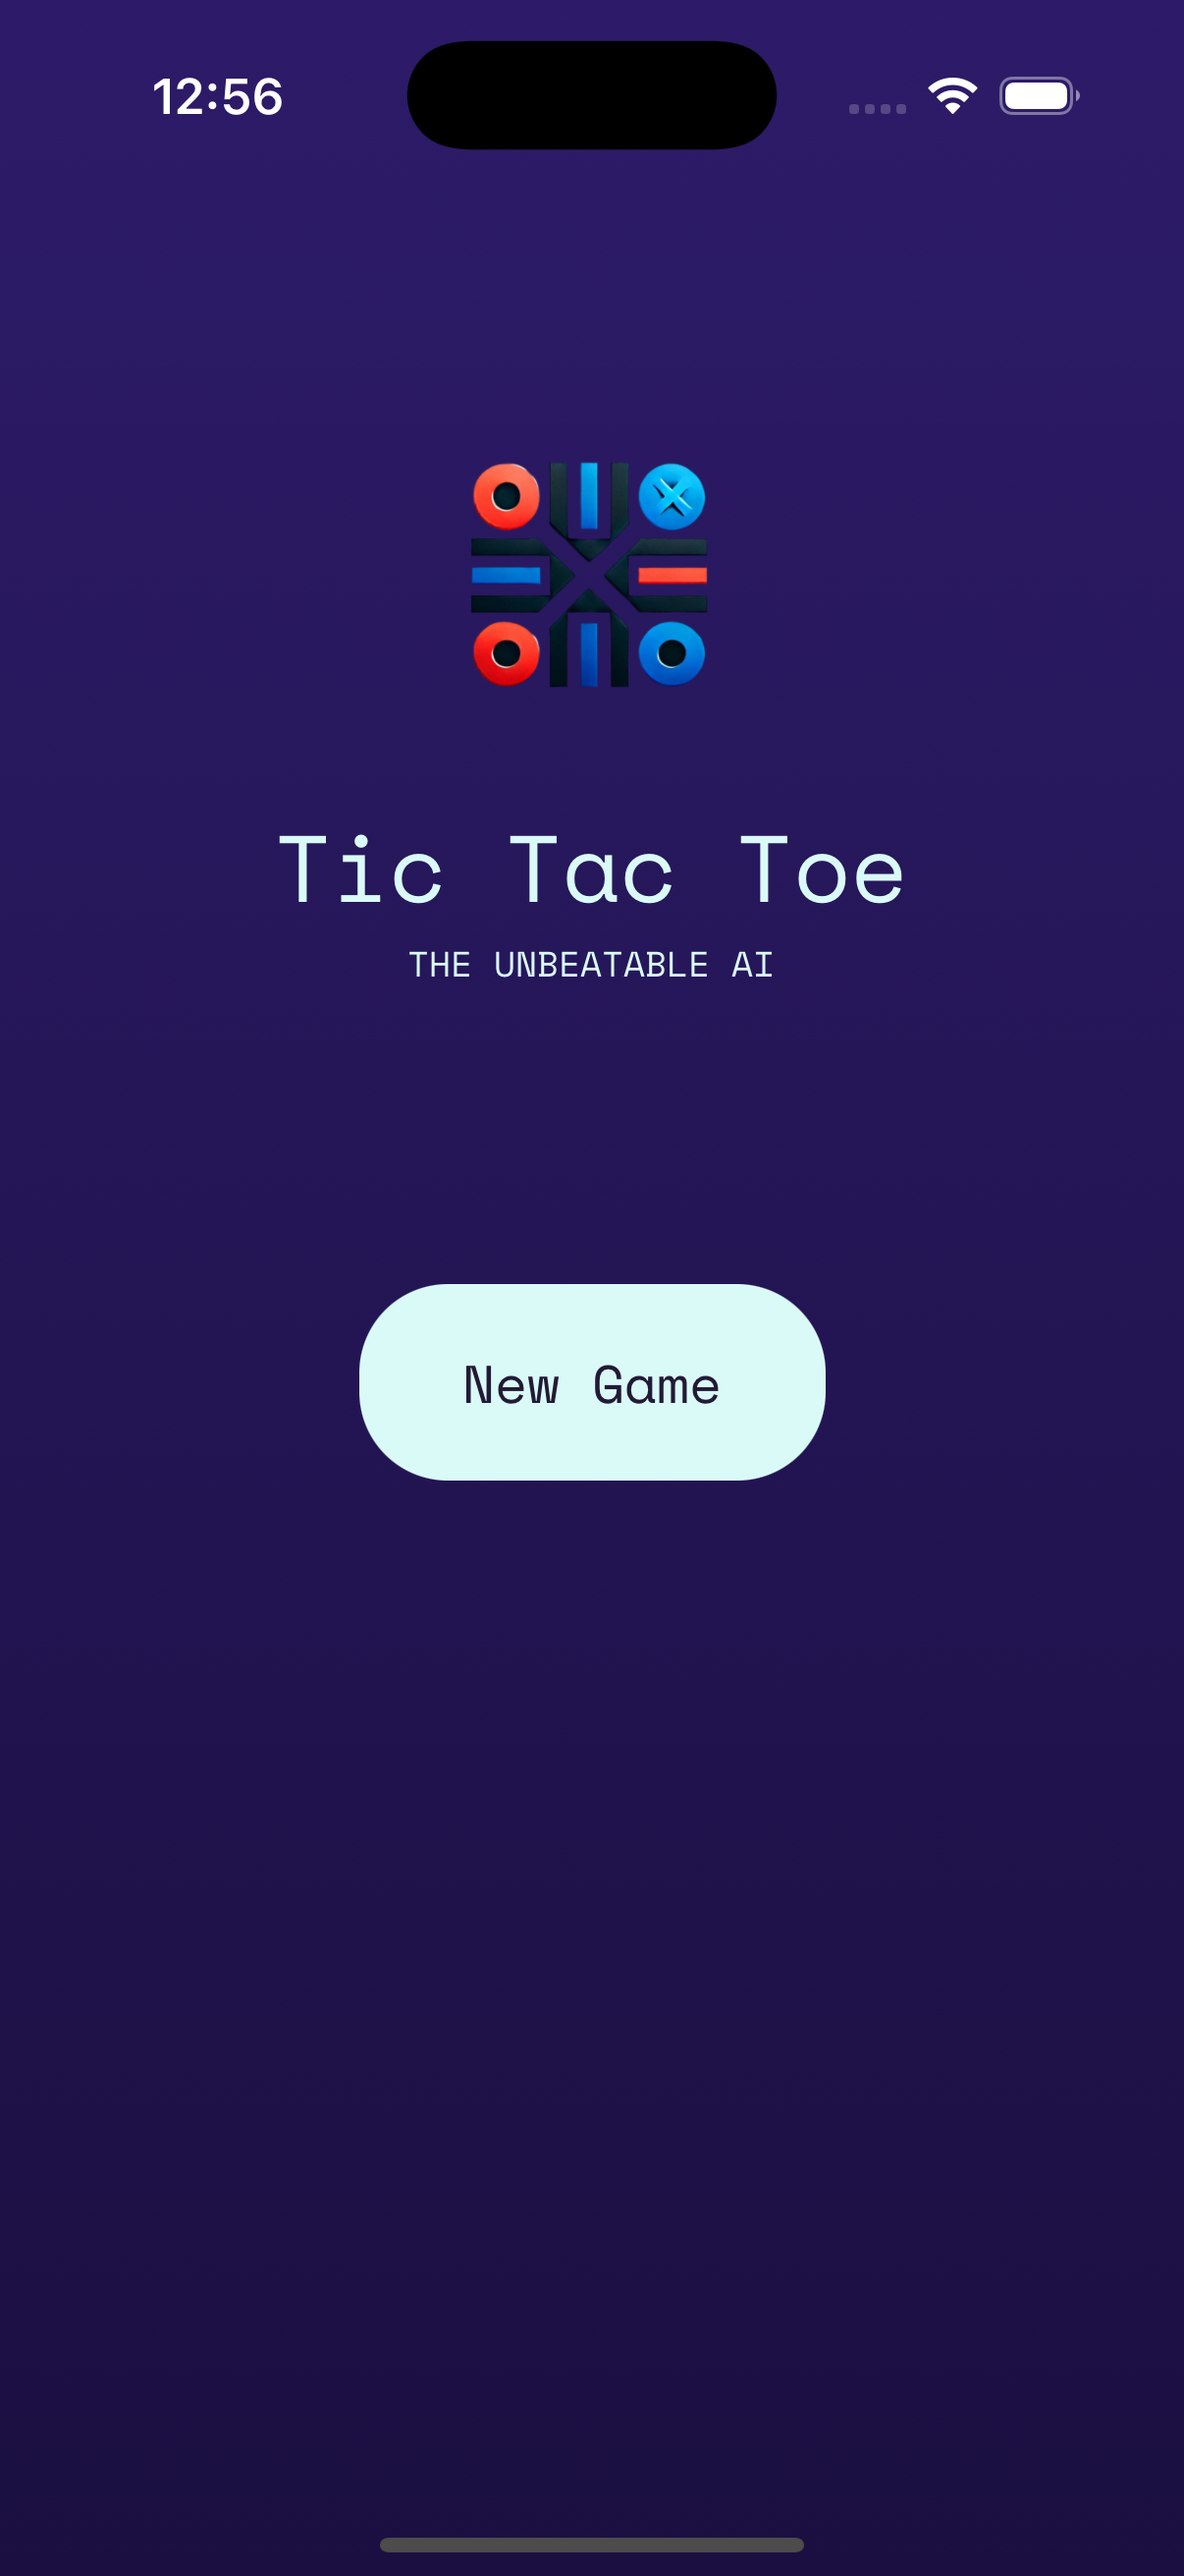
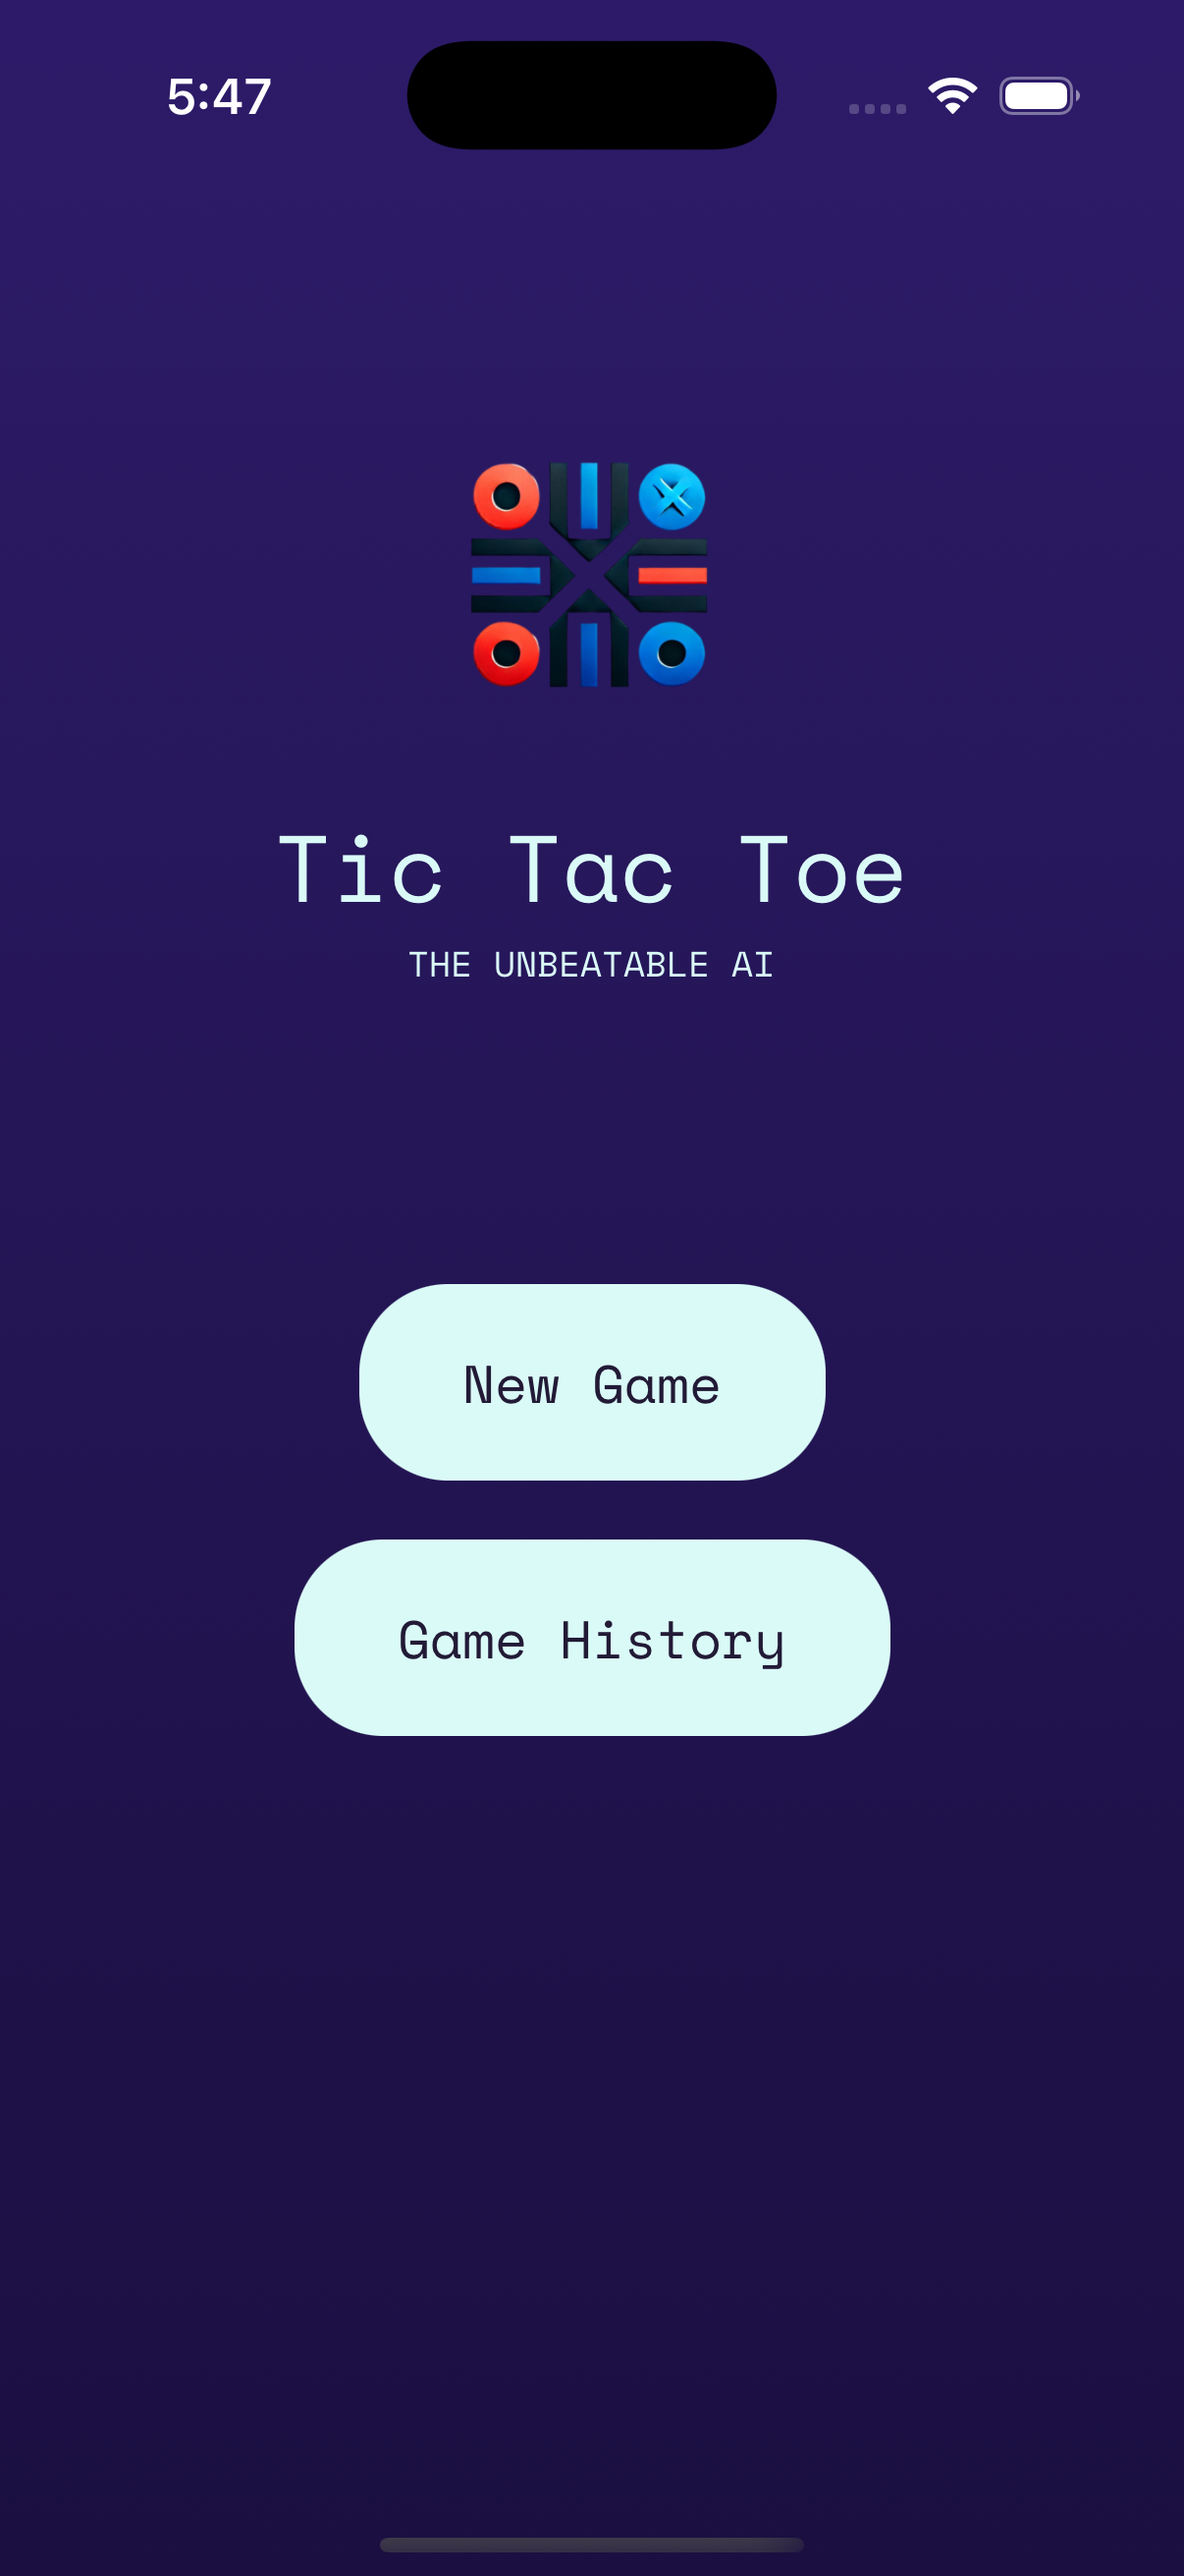
Add game history feature with AsyncStorage persistence

Changed region(s): [[0.2454, 0.587, 0.767, 0.6796], [0.3375, 0.9577, 0.675, 1.0], [0.1227, 0.0309, 0.2454, 0.0618]]

diff --git a/contexts/game-history-context.tsx b/contexts/game-history-context.tsx
@@ -1,0 +1,172 @@
+// Create a context for the game history
+
+import { createContext, useCallback, useContext, useReducer, useEffect } from 'react';
+import AsyncStorage from '@react-native-async-storage/async-storage';
+
+const GAME_HISTORY_KEY = '@gameHistory';
+
+export type GameHistory = {
+  id: string;
+  date: string;
+  result: string;
+  streak?: {
+    type: 'winning' | 'losing';
+    count: number;
+  };
+};
+
+export interface GameStats {
+  totalGames: number;
+  aiWins: number;
+  draws: number;
+  winLossRatio: number;
+  longestWinStreak: number;
+  longestLoseStreak: number;
+}
+
+export interface GameHistoryMethods {
+  state: GameHistory[];
+  stats: GameStats;
+  set: (state: GameHistory[]) => void;
+  add: (addState: GameHistory) => void;
+}
+
+const GameHistoryContext = createContext<GameHistoryMethods>({
+  state: [],
+  stats: {
+    totalGames: 0,
+    aiWins: 0,
+    draws: 0,
+    winLossRatio: 0,
+    longestWinStreak: 0,
+    longestLoseStreak: 0,
+  },
+  set: () => {},
+  add: () => {},
+});
+
+export enum GameHistoryActionType {
+  ADD_GAME_HISTORY = 'ADD_GAME_HISTORY',
+  SET_GAME_HISTORY = 'SET_GAME_HISTORY',
+}
+
+type GameHistoryAction = {
+  type: GameHistoryActionType;
+  payload: GameHistory[];
+};
+
+function reducer(state: GameHistory[], action: GameHistoryAction): GameHistory[] {
+  switch (action.type) {
+    case GameHistoryActionType.ADD_GAME_HISTORY:
+      return [...state, ...action.payload];
+    case GameHistoryActionType.SET_GAME_HISTORY:
+      return action.payload;
+    default:
+      return state;
+  }
+}
+
+function calculateStats(history: GameHistory[]): GameStats {
+  const stats: GameStats = {
+    totalGames: history.length,
+    aiWins: history.filter(game => game.result === 'loss').length,
+    draws: history.filter(game => game.result === 'draw').length,
+    winLossRatio: 0,
+    longestWinStreak: 0,
+    longestLoseStreak: 0,
+  };
+
+  // Calculate win/loss ratio
+  const wins = history.filter(game => game.result === 'win').length;
+  const losses = stats.aiWins;
+  stats.winLossRatio = losses === 0 ? wins : wins / losses;
+
+  // Calculate streaks
+  let currentWinStreak = 0;
+  let currentLoseStreak = 0;
+
+  history.forEach(game => {
+    if (game.result === 'win') {
+      currentWinStreak++;
+      currentLoseStreak = 0;
+      stats.longestWinStreak = Math.max(stats.longestWinStreak, currentWinStreak);
+    } else if (game.result === 'loss') {
+      currentLoseStreak++;
+      currentWinStreak = 0;
+      stats.longestLoseStreak = Math.max(stats.longestLoseStreak, currentLoseStreak);
+    } else {
+      currentWinStreak = 0;
+      currentLoseStreak = 0;
+    }
+  });
+
+  return stats;
+}
+
+async function deriveBaseState(): Promise<GameHistory[]> {
+  try {
+    const storedHistory = await AsyncStorage.getItem(GAME_HISTORY_KEY);
+    return storedHistory ? JSON.parse(storedHistory) : [];
+  } catch (error) {
+    console.error('Error loading game history:', error);
+    return [];
+  }
+}
+
+export function GameHistoryProvider({ children }: { children: React.ReactNode }) {
+  const [state, dispatch] = useReducer(reducer, []);
+  const stats = calculateStats(state);
+
+  // Load initial state from AsyncStorage
+  useEffect(() => {
+    deriveBaseState().then(baseState => {
+      if (baseState.length > 0) {
+        set(baseState);
+      }
+    });
+  }, []);
+
+  const add = useCallback(
+    async (add: GameHistory) => {
+      dispatch({ type: GameHistoryActionType.ADD_GAME_HISTORY, payload: [add] });
+      try {
+        const newState = [...state, add];
+        await AsyncStorage.setItem(GAME_HISTORY_KEY, JSON.stringify(newState));
+      } catch (error) {
+        console.error('Error saving game history:', error);
+      }
+    },
+    [state]
+  );
+
+  const set = useCallback(async (newState: GameHistory[]) => {
+    dispatch({ type: GameHistoryActionType.SET_GAME_HISTORY, payload: newState });
+    try {
+      await AsyncStorage.setItem(GAME_HISTORY_KEY, JSON.stringify(newState));
+    } catch (error) {
+      console.error('Error saving game history:', error);
+    }
+  }, []);
+
+  return (
+    <GameHistoryContext.Provider
+      value={{
+        state,
+        stats,
+        set,
+        add,
+      }}>
+      {children}
+    </GameHistoryContext.Provider>
+  );
+}
+
+export const useGameHistory = () => {
+  const context = useContext(GameHistoryContext);
+
+  if (!context) {
+    throw new Error('useGameHistory must be used within a GameHistoryProvider');
+  }
+
+  return context;
+};

diff --git a/app/_layout.tsx b/app/_layout.tsx
@@ -1,3 +1,4 @@
+import { GameHistoryProvider } from '@/contexts/game-history-context';
 import colors from '@/utils/colors';
 import { useFonts } from 'expo-font';
 import { Stack } from 'expo-router';
@@ -22,31 +23,47 @@ export default function RootLayout() {
   }
 
   return (
-    <Stack
-      screenOptions={{
-        orientation: 'portrait_down',
-      }}>
-      <Stack.Screen
-        name="index"
-        options={{
-          title: 'Home',
-          headerShown: false,
-        }}
-      />
-      <Stack.Screen
-        name="game"
-        options={{
-          title: '',
-          headerShown: true,
-          headerTransparent: true,
-          headerTintColor: colors.lightGreen,
-          headerBackTitle: 'Exit Game',
-          headerStyle: {
-            backgroundColor: 'transparent',
-          },
-        }}
-      />
-      <Stack.Screen name="+not-found" options={{ headerShown: false }} />
-    </Stack>
+    <GameHistoryProvider>
+      <Stack
+        screenOptions={{
+          orientation: 'portrait_down',
+        }}>
+        <Stack.Screen
+          name="index"
+          options={{
+            title: 'Home',
+            headerShown: false,
+          }}
+        />
+        <Stack.Screen
+          name="game"
+          options={{
+            title: '',
+            headerShown: true,
+            headerTransparent: true,
+            headerTintColor: colors.lightGreen,
+            headerBackTitle: 'Exit Game',
+            headerStyle: {
+              backgroundColor: 'transparent',
+            },
+          }}
+        />
+        <Stack.Screen
+          name="game-history"
+          options={{
+            title: '',
+            headerShown: true,
+            headerTransparent: true,
+            headerTintColor: colors.lightGreen,
+            headerBackTitle: 'Exit Game',
+            headerStyle: {
+              backgroundColor: 'transparent',
+            },
+          }}
+        />
+
+        <Stack.Screen name="+not-found" options={{ headerShown: false }} />
+      </Stack>
+    </GameHistoryProvider>
   );
 }

diff --git a/app/game-history.tsx b/app/game-history.tsx
@@ -1,0 +1,66 @@
+import { View, StyleSheet, FlatList } from 'react-native';
+import React, { useMemo } from 'react';
+import Text from '@/components/ui/Text';
+import GradientBackground from '@/components/GradientBackground';
+import { useGameHistory, type GameHistory } from '@/contexts/game-history-context';
+import colors from '@/utils/colors';
+
+function GameHistoryItem({ item }: { item: GameHistory }) {
+  return (
+    <View style={styles.item}>
+      <Text style={styles.date}>{new Date(item.date).toLocaleString()}</Text>
+      <Text style={styles.result}>{item.result}</Text>
+    </View>
+  );
+}
+
+export default function GameHistoryScreen() {
+  const { state } = useGameHistory();
+
+  const sortedState = useMemo(
+    () => state.sort((a, b) => new Date(b.date).getTime() - new Date(a.date).getTime()),
+    [state]
+  );
+
+  return (
+    <GradientBackground>
+      <View style={styles.container}>
+        <Text style={styles.title}>Game History</Text>
+        <FlatList
+          data={sortedState}
+          renderItem={({ item }) => <GameHistoryItem item={item} />}
+          keyExtractor={item => item.id}
+          style={{ width: '100%' }}
+        />
+      </View>
+    </GradientBackground>
+  );
+}
+
+const styles = StyleSheet.create({
+  container: {
+    flex: 1,
+    alignItems: 'center',
+    justifyContent: 'center',
+    marginTop: 100,
+  },
+  title: {
+    fontSize: 24,
+    fontWeight: 'bold',
+    marginBottom: 20,
+    color: colors.lightGreen,
+  },
+  item: {
+    padding: 10,
+    borderBottomWidth: 1,
+    borderBottomColor: colors.lightGreen,
+  },
+  date: {
+    fontSize: 16,
+    color: colors.lightGreen,
+  },
+  result: {
+    fontSize: 16,
+    color: colors.lightGreen,
+  },
+});

diff --git a/app/game.tsx b/app/game.tsx
@@ -7,9 +7,9 @@ import { BoardState, Cell, GameMode } from '@/utils/types';
 import { getBoardResult, isEmpty } from '@/utils/board';
 import { getBestMove } from '@/utils/minimax';
 import Text from '@/components/ui/Text';
-import Button from '@/components/ui/Button';
 import { GameResult } from '@/components/GameResult';
 import { GameStart } from '@/components/GameStart';
+import { useGameHistory } from '@/contexts/game-history-context';
 
 const INITIAL_BOARD_STATE = Array(9).fill(null) as BoardState;
 
@@ -20,6 +20,7 @@ const SCREEN_SIZE = Dimensions.get('window').width;
 const BOARD_SIZE = SCREEN_SIZE * 0.8;
 
 export default function Game() {
+  const { add } = useGameHistory();
   const [gameStarted, setGameStarted] = useState<boolean>(false);
   const [state, setState] = useState<BoardState>(INITIAL_BOARD_STATE);
   const [turn, setTurn] = useState<GameMode>();
@@ -80,6 +81,18 @@ export default function Game() {
     // Cleanup timeout on unmount or when dependencies change
     return () => clearTimeout(timeoutId);
   }, [insertCell, isHumanMaximizing, state, turn]);
+
+  useEffect(() => {
+    if (gameResult) {
+      const gameHistory = {
+        id: Date.now().toString(),
+        date: String(new Date()),
+        result: gameResult.winner === 'x' ? 'Computer Won' : 'Draw',
+      };
+
+      add(gameHistory);
+    }
+  }, [gameResult, state, add]);
 
   return (
     <GradientBackground>

diff --git a/app/index.tsx b/app/index.tsx
@@ -15,6 +15,7 @@ export default function Index() {
 
         <View style={styles.buttons}>
           <Button title="New Game" onPress={() => router.push('/game')} />
+          <Button title="Game History" onPress={() => router.push('/game-history')} />
         </View>
       </ScrollView>
     </GradientBackground>

diff --git a/README.md b/README.md
@@ -14,6 +14,10 @@ This project is a single-player unbeatable Tic Tac Toe game built in React Nativ
 
 <img src="./screenshots/game-screen.png" width="30%" /> <img src="./screenshots/game-draw-screen.png" width="30%" /> <img src="./screenshots/game-lost-screen.png" width="30%" />
 
+### Game History Screen
+
+<img src="./screenshots/game-history-screen.png" width="30%" />
+
 ## How to run the project locally
 
 1. Clone the repository
@@ -59,6 +63,18 @@ This project is a single-player unbeatable Tic Tac Toe game built in React Nativ
 5. User can start a new game once current one is completed
 6. All games must result in either end in a tie or user loss. The computer player has to be unbeatable.
 7. Must provide a Readme containing instructions on how to run the game as well as technical details explaining their approach and tools used.
+
+## Game History
+
+The game keeps track of your match history, including:
+
+- Total games played
+- Games won by AI
+- Games ending in a draw
+- Win/Loss ratio
+- Longest winning/losing streaks
+
+This data persists between sessions using AsyncStorage, allowing you to track your performance over time.
 
 ## Tech Stack
 
